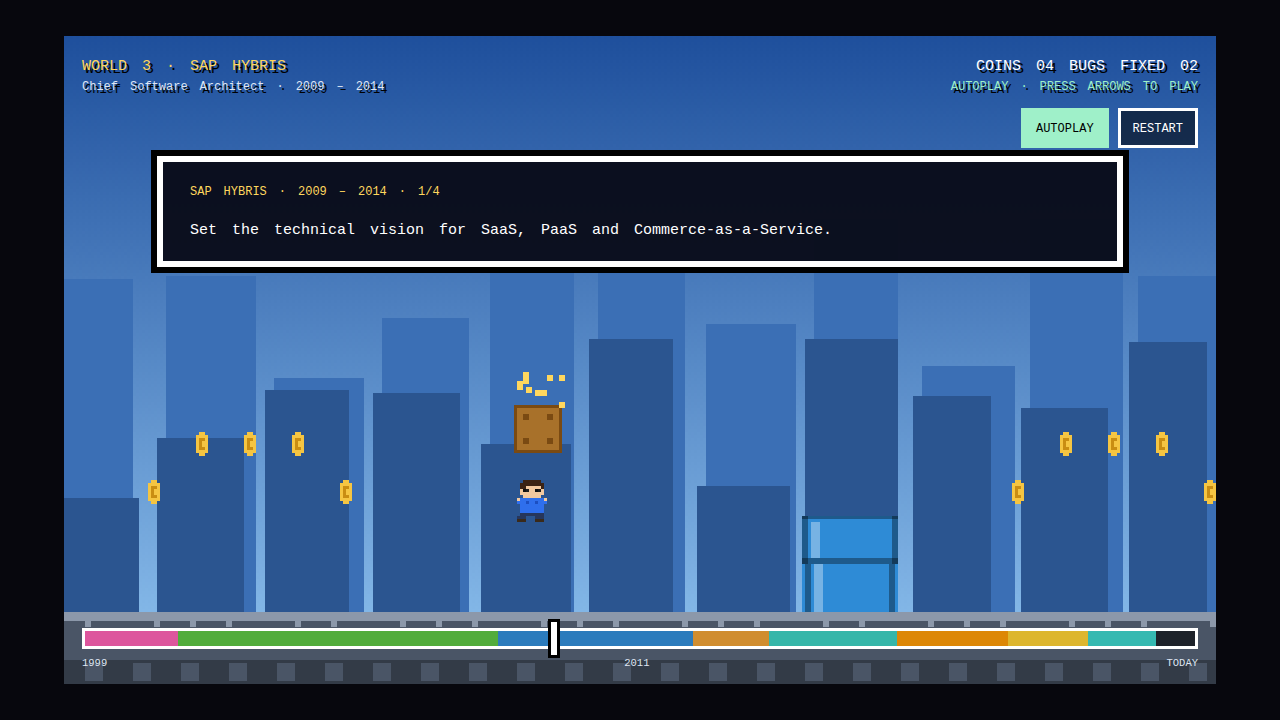
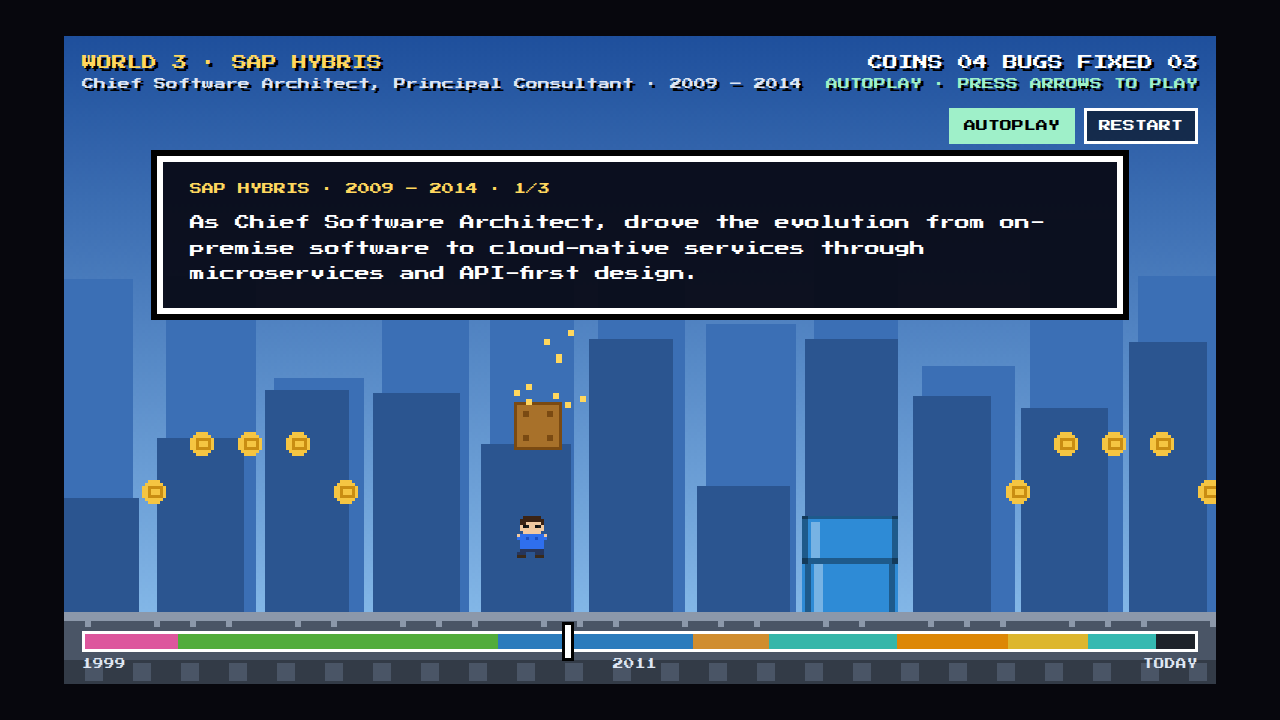
Sync timeline with revised CV and fix bundled font subset
Mirror the reworded CV: new Mambu OAuth/IdP and GraphQL API milestones,
Mbanq title and customer-scale outcome, Titan GraphQL in the bonus stage,
and drop the inferred locations the CV never states. Replace the bundled
woff2, which was the cyrillic-ext subset and rendered every Latin glyph in
the fallback font, with the latin subset. Keep milestone cards visible
while running to the next block so longer text stays readable.

diff --git a/index.html b/index.html
@@ -98,66 +98,71 @@ const CV = {
 };
 
 const WORLDS = [
-  { company: 'Commerce One', role: 'Senior Applications Engineer', place: 'California', years: '1999 – 2001', start: 1999.7, end: 2001.95, theme: 'dotcom',
+  { company: 'Commerce One', role: 'Senior Applications Engineer', years: '1999 – 2001', start: 1999.7, end: 2001.95, theme: 'dotcom',
     milestones: [
-      'Built multiple data centers and 1,000+ servers powering 30+ enterprise marketplaces.',
-      'Led customer deployments and implementation training through the first wave of B2B e-commerce.',
+      'Designed, deployed and operated managed SaaS and on-premise e-commerce platforms, spanning application and infrastructure operations.',
+      'Architected and operated multiple data centers: a 1,000+ server estate supporting 30+ enterprise marketplaces.',
+      'Led customer deployments and implementation training.',
     ] },
-  { company: 'Metagee', role: 'Co-Founder, General Manager', place: 'Europe', years: '2002 – 2009', start: 2002, end: 2009.8, theme: 'hills',
+  { company: 'Metagee', role: 'Co-Founder, General Manager', years: '2002 – 2009', start: 2002, end: 2009.8, theme: 'hills',
     milestones: [
-      'Co-founded an international e-commerce consulting and engineering organization.',
-      'Delivered for BMW, Siemens, SKIDATA and European energy companies.',
+      'Built an international e-commerce consulting and engineering organization.',
+      'Served BMW, Siemens, SKIDATA and European energy companies.',
     ] },
-  { company: 'SAP Hybris', role: 'Chief Software Architect', place: 'Munich', years: '2009 – 2014', start: 2009.85, end: 2014.6, theme: 'corporate',
+  { company: 'SAP Hybris', role: 'Chief Software Architect, Principal Consultant', place: 'Munich', years: '2009 – 2014', start: 2009.85, end: 2014.6, theme: 'corporate',
     milestones: [
-      'Set the technical vision for SaaS, PaaS and Commerce-as-a-Service.',
-      'Led the product and organizational transition from on-premise software to cloud delivery.',
-      'Drove enterprise architecture across security, scalability and performance; ran acquisition diligence.',
-      'Led a 10-person consulting team across Central Europe and Poland.',
+      'As Chief Software Architect, drove the evolution from on-premise software to cloud-native services through microservices and API-first design.',
+      'Set technical direction for SaaS, PaaS and Commerce-as-a-Service; established architecture standards and led acquisition due diligence.',
+      'As Principal Consultant, led a 10-person consulting team delivering customer solutions across EMEA.',
     ] },
   { company: 'Fidor Solutions', role: 'Chief Product Officer', place: 'Munich', years: '2015 – 2016', start: 2015.1, end: 2016.95, theme: 'sunset',
     milestones: [
-      'Created and led the product organization: €10M revenue in the first sale.',
-      'Launched digital banks for O2, Fidor Bank UK and ADIB, plus crypto and fintech integrations.',
-      'Automated onboarding & KYC with customer acquisition costs 15–20× lower than traditional banks.',
+      'Created and led the product organization, turning proprietary banking technology into a commercial platform built around open banking APIs.',
+      'Generated €10M revenue from the first sale and secured subsequent customer sales.',
+      'Led solution architecture teams launching digital banks for O2, Fidor Bank UK and ADIB.',
+      'Designed automated onboarding and KYC architecture with customer acquisition costs 15–20× lower than traditional banks.',
     ] },
-  { company: 'Mbanq', role: 'Co-Founder, CPO, Architect, Lead Engineer', place: 'Munich', years: '2017 – 2020', start: 2017, end: 2020.1, theme: 'nightcity',
+  { company: 'Mbanq', role: 'Co-Founder', place: 'Munich', years: '2017 – 2020', start: 2017, end: 2020.1, theme: 'nightcity',
     milestones: [
-      'Co-founded a Banking-as-a-Service business and wrote most of its initial cloud-native banking core.',
-      'Multi-tenant CQRS architecture in Java, PostgreSQL and AWS: payments, ledger, wallet, KYC and AML.',
-      'Acquired and integrated core-banking company ABOS; led SOC 2 compliance.',
-      'Scaled internationally: engineering in Phnom Penh and the Mbanq Labs accelerator in Singapore.',
+      'Co-founded Mbanq, a Banking-as-a-Service business enabling banks, fintechs and non-banks to launch and operate digital banking services.',
+      'Designed the cloud-native, multi-tenant architecture and wrote most of the initial banking core: payments, ledger, wallets, onboarding and compliance.',
+      'Acquired and integrated core-banking provider ABOS; built international engineering capacity and the Mbanq Labs accelerator in Singapore.',
+      'Mbanq has since grown to support 2 million banking customers across its client platforms.',
     ] },
   { company: 'Amazon Web Services', role: 'Global Solutions Architect', place: 'Berlin', years: '2020 – 2023', start: 2020.35, end: 2023.05, theme: 'clouds',
     milestones: [
-      'Led Siemens Energy-wide data-mesh and marketplace architecture, influencing a €20M opportunity.',
-      'Advised customers in 100+ enterprise engagements across six industries.',
-      'Built SageMaker AI/ML proofs of concept, several reaching production; ran global training and hackathons.',
-      'Partnered with Siemens Energy and NVIDIA on digital-twin vision and strategy.',
+      'Trusted technical advisor to global enterprise customers, shaping cloud strategies and architectures for business transformation and AWS adoption.',
+      'Developed customer opportunities with account teams, including a €20M opportunity supported by Siemens Energy-wide data-mesh and marketplace architecture.',
+      'Combined 100+ enterprise engagements with hands-on SageMaker AI/ML prototyping, several implementations reaching production.',
+      'Built reusable architectures and delivery guidance, led workshops and hackathons, and worked with Siemens Energy and NVIDIA on digital-twin strategy.',
     ] },
   { company: 'Miro', role: 'Principal Software Architect', place: 'Amsterdam', years: '2023 – 2025', start: 2023.1, end: 2025.05, theme: 'whiteboard',
     milestones: [
-      'Defined the architecture vision for Miro’s multi-year transition from whiteboard to Innovation Workspace.',
-      'Owned enterprise content-lifecycle architecture: retention, authorization, governance and legal holds.',
-      'Led technical due diligence and integration strategy for the 2024 InVision/Freehand merger.',
+      'Led architectural strategy for Miro’s multi-year evolution from digital whiteboard into an Innovation Workspace for visual collaboration and product development.',
+      'Aligned product, design and engineering across product streams around a shared technical vision, connecting product strategy with engineering execution.',
+      'Owned enterprise content-lifecycle architecture: authorization, retention, governance, legal holds and content analytics.',
+      'Conducted acquisition due diligence and led integration strategy for InVision/Freehand.',
     ] },
   { company: 'Mambu', role: 'Principal Engineer', place: 'Amsterdam', years: '2025 – Present', start: 2025.05, end: 2026.7, theme: 'ai',
     milestones: [
-      'Shipped customer-facing banking agents with Anthropic APIs and the Claude Agent SDK; 10 customers evaluating.',
-      'Built the Mambu MCP server with an evaluation suite mapping prompt intent to API operations.',
-      'Led AI adoption across 200 engineers: daily merged requests doubled at flat headcount, 80% agent-assisted.',
-      'Agents modularized a 15-year-old multi-million-line monolith to 80% in three months vs a two-year estimate.',
-      'Co-led the move to AI-native pods; 50% of engineers now deliver with fully AI-driven workflows.',
-      'Ran two global agentic-AI hackathons: 40 teams, 300+ attendees, winners shipped to production.',
+      'Led development of banking agents for Mambu’s Intelligent Core, built with Anthropic APIs and the Claude Agent SDK; production deployment in evaluation with 10 customers.',
+      'Designed and built the Mambu MCP server, connecting enterprise AI agents to banking data and operations, with an evaluation suite mapping customer intent to API actions.',
+      'Designed and built Mambu’s proprietary OAuth 2.0 and identity provider (IdP) solution for platform authentication and authorization.',
+      'Designed and built Mambu’s GraphQL banking APIs, enabling flexible, typed access to banking data and capabilities.',
+      'Drove the AI Software Development Lifecycle and AI Software Factory across 200 engineers: daily merged requests doubled at flat headcount within nine months, 80% agent-assisted.',
+      'Applied agent-driven engineering to a 15-year-old, multi-million-line core-banking platform: 80% of planned modularization in three months against a two-year estimate.',
+      'Ran two global agentic-AI hackathons with 40 teams and 300+ attendees; winning projects progressed to production.',
     ] },
   { company: 'Independent Portfolio', role: 'Bonus Stage', place: 'github.com/rbilleci', years: 'Side projects', bonus: true, theme: 'castle',
     milestones: [
-      'Thor: autonomous software delivery. TypeScript/Temporal orchestrator spanning Claude and Codex workers.',
-      'Storyteller: agent evaluation across four frameworks and 80 instrumented runs with MCP-owned rules.',
-      'Hive: multi-tenant agent control plane in Java, GraphQL and PostgreSQL.',
-      'Thunderbolt DB: Rust/CUDA GPU-native relational engine speaking the PostgreSQL wire protocol.',
-      'Titan: compiler lowering Java workflows into reviewable PostgreSQL/MySQL procedures and triggers.',
-      'Boxy: multi-tenant event streaming over a transactional outbox, about 5 ms p99 consumer lag.',
+      'Thor: autonomous software delivery coordinating AI agents from planning through review and merge; durable Temporal workflows orchestrate Claude and Codex workers.',
+      'Storyteller: an AI game master for tabletop role-playing; a local language model narrates while an MCP rules engine controls dice rolls and state.',
+      'Hive: a management platform for deploying and monitoring AI agents across teams, with a multi-tenant control plane in Java, GraphQL and PostgreSQL.',
+      'Thunderbolt DB: an experimental GPU-native relational database; a Rust/CUDA engine runs joins, aggregation and mutations on the GPU with PostgreSQL connectivity.',
+      'Titan: a Java-to-SQL compiler generating stored procedures, functions, triggers and scheduled jobs for PostgreSQL and MySQL.',
+      'Titan DSL: a Java library that turns database schemas into typed query building blocks, surfacing schema changes and type errors at compile time.',
+      'Titan GraphQL: a secure GraphQL layer over PostgreSQL and MySQL that compiles operations into database routines with row and field policies.',
+      'Boxy: multi-tenant event streaming with Pulsar-like topics over a database’s transactional outbox, no separate broker; about 5 ms p99 consumer lag.',
     ] },
 ];
 
@@ -179,7 +184,7 @@ const TILE = 16, VW = 384, VH = 216, ROWS = 14, GROUND_ROW = 12;
 const GRAVITY = 0.35, JUMP_V = -6.2, RUN = 2.0, MAX_FALL = 7;
 const T = { EMPTY: 0, GROUND: 1, BRICK: 2, Q: 3, USED: 4, PIPE_TL: 5, PIPE_TR: 6, PIPE_L: 7, PIPE_R: 8, HARD: 9, POLE: 10, CLOUD: 11 };
 const SOLID = new Set([T.GROUND, T.BRICK, T.Q, T.USED, T.PIPE_TL, T.PIPE_TR, T.PIPE_L, T.PIPE_R, T.HARD, T.CLOUD]);
-const READ_FRAMES = 240, TITLE_FRAMES = 170, CLEAR_FRAMES = 130, END_RESTART_FRAMES = 60 * 18;
+const READ_FRAMES = 270, TITLE_FRAMES = 170, CLEAR_FRAMES = 130, END_RESTART_FRAMES = 60 * 18;
 const SEED = Number(new URLSearchParams(location.search).get('seed')) || 0;
 
 // ---------------------------------------------------------------- sprites
@@ -320,7 +325,7 @@ function startWorld(i) {
   const w = WORLDS[i];
   ui.title.querySelector('.w').textContent = w.bonus ? 'BONUS STAGE' : `WORLD ${i + 1} OF ${WORLDS.length - 1}`;
   ui.title.querySelector('.c').textContent = w.company.toUpperCase();
-  ui.title.querySelector('.r').textContent = `${w.role} · ${w.place}\n${w.years}`;
+  ui.title.querySelector('.r').textContent = `${[w.role, w.place].filter(Boolean).join(' · ')}\n${w.years}`;
   ui.title.classList.add('show');
   ui.hudCo.textContent = (w.bonus ? 'BONUS · ' : `WORLD ${i + 1} · `) + w.company.toUpperCase();
   ui.hudSub.textContent = `${w.role} · ${w.years}`;
@@ -510,7 +515,8 @@ function showCard(m) {
   ui.card.querySelector('.k').textContent = `${w.company.toUpperCase()} · ${w.years} · ${m.i + 1}/${w.milestones.length}`;
   ui.card.querySelector('.b').textContent = m.text;
   ui.card.classList.add('show');
-  game.cardT = game.auto ? READ_FRAMES + 30 : 360;
+  // Keep the card up while the player runs to the next block; it sits in the sky and never covers play
+  game.cardT = game.auto ? READ_FRAMES + 420 : 480;
 }
 function hideCard() { ui.card.classList.remove('show'); game.cardT = 0; }
 function showClear() {
